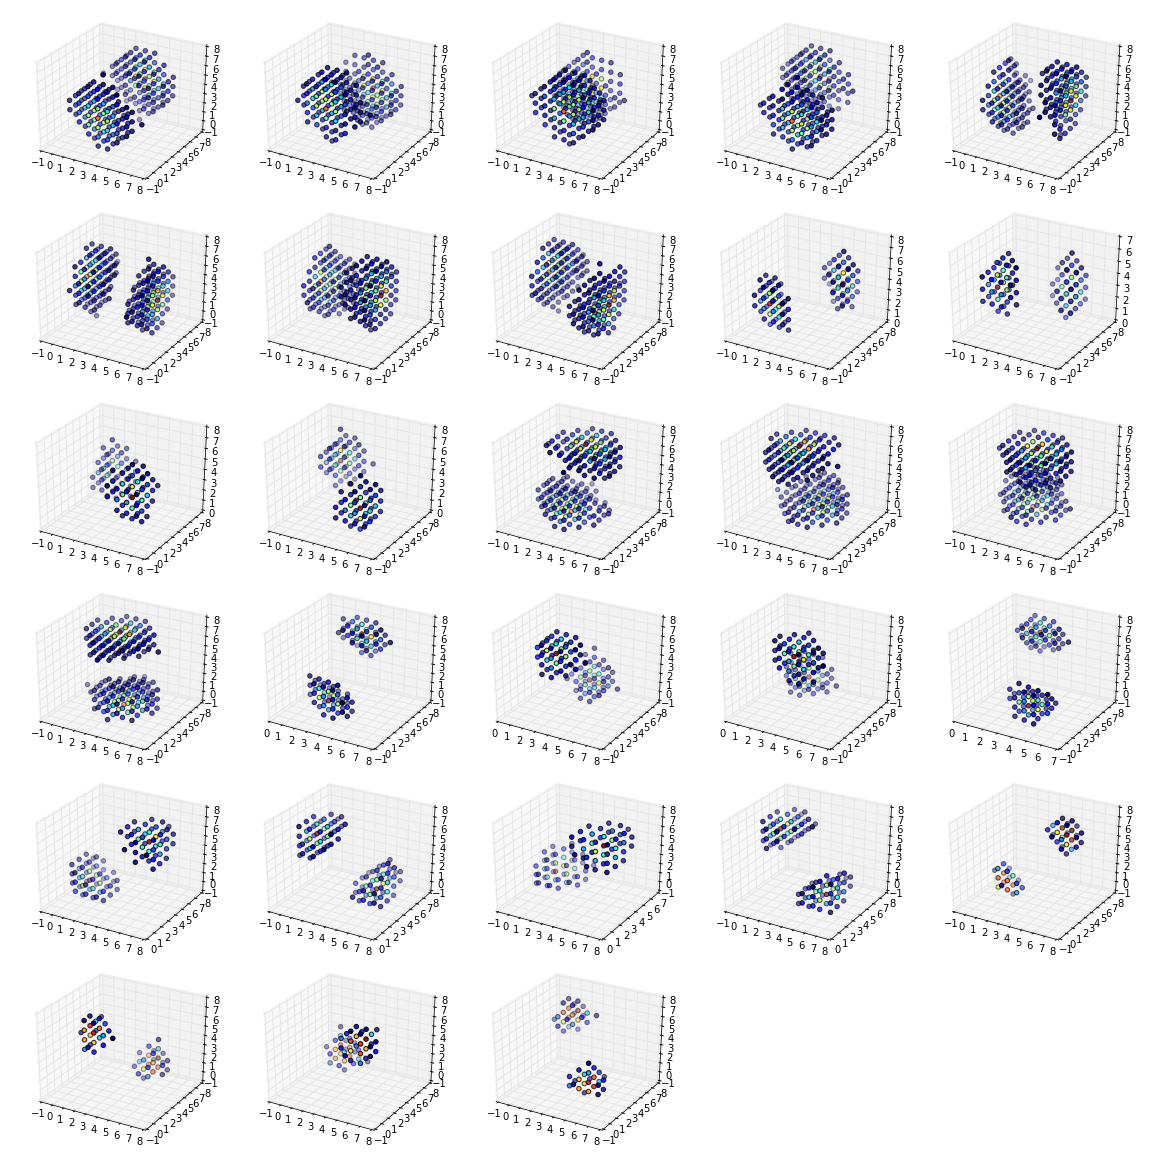
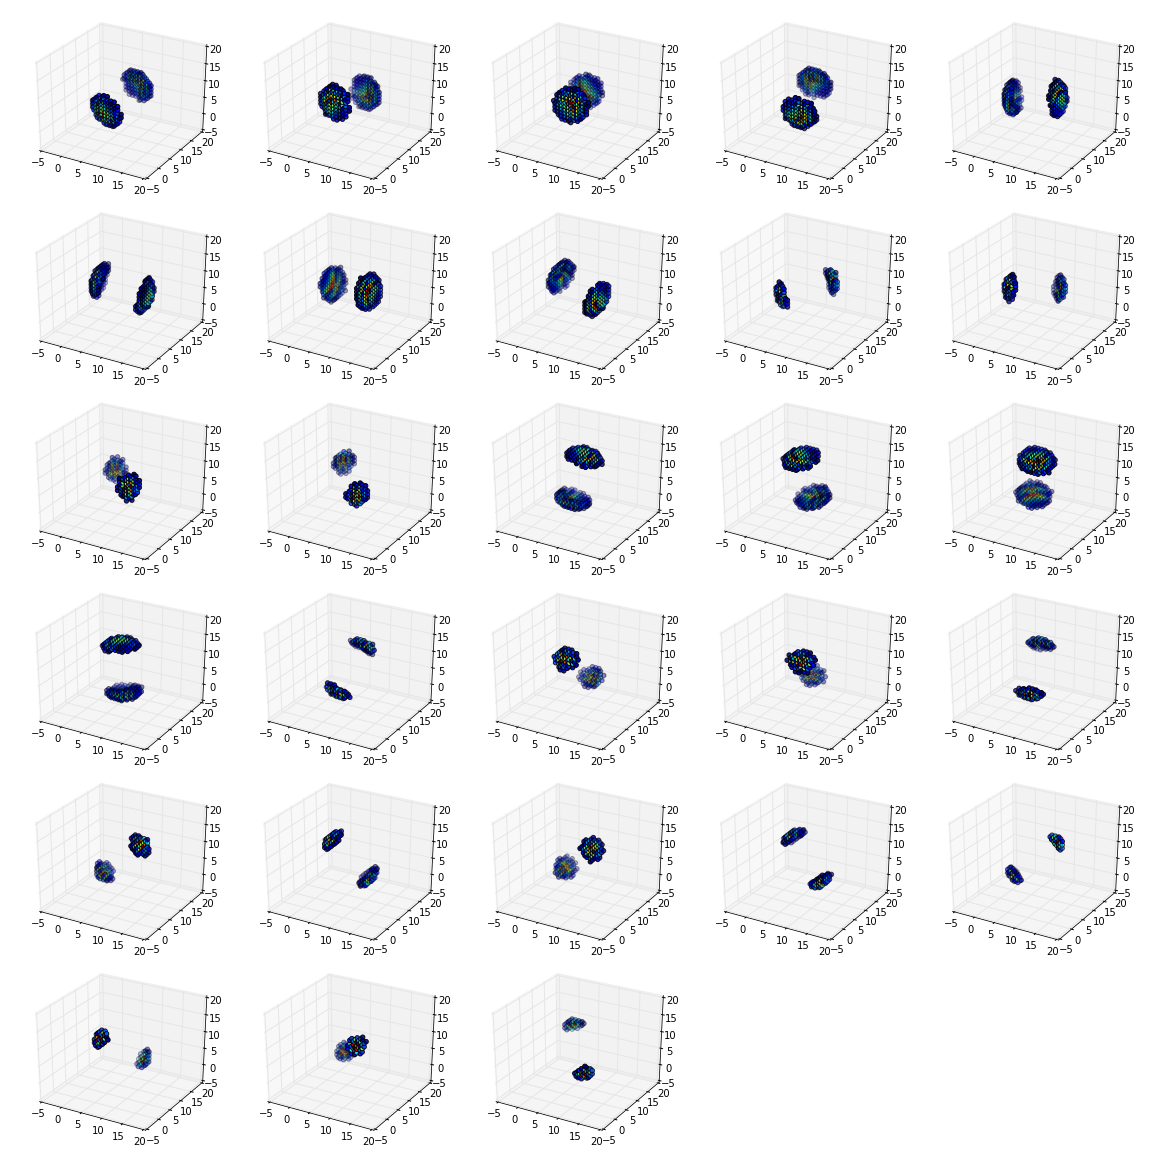
improve directionality plot a little in getting started

diff --git a/docs/gettingstarted.rst b/docs/gettingstarted.rst
@@ -190,13 +190,18 @@ directional sensitivity of the transform::
     nplts = Yh[-1].shape[3]
     nrows = np.ceil(np.sqrt(nplts))
     ncols = np.ceil(nplts / nrows)
+    W = np.max(Yh[-1].shape[:3])
     for idx in xrange(Yh[-1].shape[3]):
         C = np.abs(Yh[-1][:,:,:,idx])
         ax = gcf().add_subplot(nrows, ncols, idx+1, projection='3d')
         ax.set_aspect('equal')
-        x,y,z = np.nonzero(C > 2e-1)
-        ax.scatter(x, y, z, c=C[C > 2e-1].ravel())
+        good = C > 0.2*C.max()
+        x,y,z = np.nonzero(good)
+        ax.scatter(x, y, z, c=C[good].ravel())
+        ax.auto_scale_xyz((0,W), (0,W), (0,W))
         
+    tight_layout()
+            
 For a further directional sensitivity example, see :ref:`3d-directional-example`.
 
 .. figure:: 3d-complex-coeffs.png
